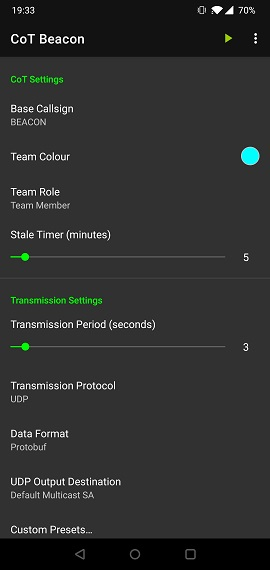
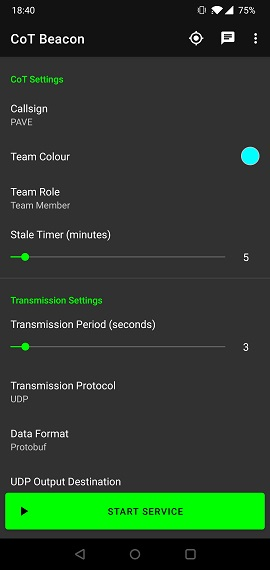
Updated readme

diff --git a/README.md b/README.md
@@ -10,7 +10,7 @@ CoT Beacon was originally spun off as [a separate repository](https://github.com
 ## Quick Start
 1. Download the installer APK from [the GitHub releases page](https://github.com/jonapoul/cotgenerator/releases), then copy the file to your device and open it in a file browser to install.
 2. Open the app and grant permissions for GPS access and reading external storage. See [permissions section](#permissions).
-3. Configure as required (see below for more explanation).
+3. Configure as required. See [settings section](#settings).
 4. Tap the green "start" icon in the right hand side of the upper toolbar. This begins the configured packet transmissions.
 5. When finished, tap the red "stop" icon on the toolbar, or the "STOP" button on the service notification.
 
@@ -18,7 +18,7 @@ CoT Beacon was originally spun off as [a separate repository](https://github.com
 
 | Generator Main Screen | Custom Output Presets | Beacon Main Screen
 |:--:|:--:|:--:|
-![Main Screen](docs/screenshots/ui_main.jpg) | ![Main Screen](docs/screenshots/ui_presets.jpg) | ![CoT Beacon](docs/screenshots/ui_beacon.jpg) |
+![Main Screen](docs/screenshots/ui_generator.jpg) | ![Main Screen](docs/screenshots/ui_presets.jpg) | ![CoT Beacon](docs/screenshots/ui_beacon.jpg) |
 
 | 20 Icons |
 :--:|
@@ -33,37 +33,55 @@ CoT Beacon was originally spun off as [a separate repository](https://github.com
 ![20 Icons Elevated](docs/screenshots/end_times.jpg)|
 
 ## Function
-This app generates a specified number of representative CoT PLI tracks around a configured latitude/longitude point. These tracks are randomly scattered within the configured "Radial Distribution" and are given randomised ATAK callsigns. After each transmission, each track is shifted slightly to a random position dependent on the icon movement speed. CoT Generator is mostly intended for network/server stress testing, but could also be useful for demonstration purposes.
 
-It supports SSL, TCP and UDP traffic, and it will give you a red UI notification if any connection errors occur (timeout, socket closing, etc.).
+CoT Generator creates a specified number of representative CoT PLI tracks around a configured latitude/longitude point. These tracks are randomly scattered within the configured "Radial Distribution" and are given randomised ATAK callsigns (by default). After each transmission, each track is shifted slightly to a random nearby position dependent on the configured icon movement speed. Generator is mostly intended for network/server stress testing, but could also be useful for demonstration purposes.
 
-Similarly, if you're travelling between different networks whilst the server is running (e.g. losing Wi-Fi signal then regaining it), you should expect it to stop running when the connection is lost. Just restart the service and it should work again.
+Both apps support SSL, TCP and UDP traffic, and will give you notifications of any runtime connection errors (timeout, socket closing, etc.). Similarly, if you're travelling between different networks whilst the server is running (e.g. losing Wi-Fi signal then regaining it), you should expect it to stop running when the connection is lost. Just restart the service and it should work again.
+
+Also included is a handy "My Location" screen - accessed from the toolbar on the home screen - which shows your current GPS position, compass orientation and some other useful values.
+
+## Presets
+The app is based around the idea of "output presets", which are connection configurations that specify a protocol, alias, address and port to which the app will send your generated data. These are stored in a database on the device for future use in case you swap between multiple servers.
+
+At the moment (Oct 2020) these databases are independent between Beacon and Generator, so any preset configured in Beacon is not auto-imported into Generator. This shared data pool is something that I am looking to fix at some point in the future.
+
+### Importing Presets
+When adding a new preset, the user can either enter one manually (faffing about with the keyboard) or import one semi-automatically from an ATAK preference file or data package. To do this:
+- Open the "Custom Presets" screen [as shown above](#screenshots)
+- Tap the + button in the bottom right
+- Tap "Import From File"
+- Navigate to the location of your file.
+    - If preferences are exported from ATAK's setting menu, look under /atak/config/prefs
+    - If importing from a data package, look under /atak/tools/datapackage
+- If the selected file contains multiple outputs, you will be presented with a list dialog asking to import one of them. Currently, only a single import can currently be performed at a time.
+- When selected, the "Edit Preset" screen is shown, so you can edit to your heart's content. When done, tap the "save" button in the top right to finalise the process.
+
 
 ## Settings
 
 Note that some of the following settings are not available on CoT Beacon.
 
-| Option | Possible Values | Default Value | Description |
-|--------|-----------------|---------------|-------------|
-| Use Random Callsigns? | True/False | True | When enabled, icon callsigns will be pulled at random from ATAK's default callsign list. |
-| Callsign | Any characters except '<' or '>' | GENERATED | Acts as a base callsign for all generated icons. E.g. "GENERATED-1", "GENERATED-2", etc. |
-| Use Random Team Colours? | True/False | True | When enabled, icon colours are pulled at random from ATAK's team colour list. |
-| Team Colour | Standard ATAK team colours | Cyan | Colour to be applied to all icons. |
-| Use Random Team Roles? | True/False | True | When enabled, icon roles are pulled at random from ATAK's role list. |
-| Team Role | Standard ATAK icon roles | Team Member | Role to be applied to all icons. |
-| Icon Count | Positive integer | 10 | Number of icons to place on the map. |
-| Stale Timer | 1 to 60 | 5 mins | Time after which icons will stale out of the TAK map. |
-| Follow My GPS Location? | True/False | True | When enabled, all generated icons will follow your moving GPS position on the ATAK map. |
-| Centre Latitude/Longitude | <p>0 < longitude < 360<br>-90 < latitude < 90</p> | <p>Lat = 53.725103<br>Lon = -1.351375</p> | Specifies the static centrepoint of all generated icons. |
-| Stay At Ground Level? | True/False | True | When enabled, all icons are placed at an altitude of 0m HAE (height above ellipsoid). |
-| Centre Altitude | 0 to 5km | 0m | Sets the vertical centrepoint of all generated icons. Icons will be distributed in a pseudo-cylinder around the specified lat/lon/HAE coordinates. |
-| Radial Distribution | Positive integer | 100m | The radius of the icon distribution circle. Essentially a maximum distance each icon can possibly move from the centrepoint in 3D space. |
-| Icon Movement Speed  | Positive integer | 5mph | Speed at which each icon moves from point to point between each update. Note that the directional bearing is random. |
-| Transmission Period | 1 to 30 | 10 seconds | Update period for each icon. So if we have Icon Count of 40 and a Transmission period of 10 seconds, we'll send out 4 packets per second. |
-| Transmission Protocol | SSL, TCP, UDP | TCP | Network protocol to use when sending out packets. |
-| Data Format | XML or Protobuf | Protobuf | The serialisation format of the CoT packet. Note that TAK Servers over TCP/SSL only allow XML (as far as I know!), so the option will be hidden for these protocols. |
-| Output Destination | Any default or custom preset | Public FreeTakServer |  |
-| Custom Presets... | N/A | N/A | Opens a window to add, edit and delete persisted custom presets for each protocol. See the screenshot at the top. |
+| Option | Possible Values | Description |
+|--------|-----------------|-------------|
+| Use Random Callsigns? | True/False | When enabled, icon callsigns will be pulled at random from ATAK's default callsign list. |
+| Callsign | Any characters except '<' or '>' | Acts as a base callsign for all generated icons. E.g. "GENERATED-1", "GENERATED-2", etc. |
+| Use Indexed Callsigns? | True/False | When enabled, icons will have their callsigns appended with an identifying index, e.g. 'GENERATED-1'.z |
+| Use Random Team Colours? | True/False |When enabled, icon colours are pulled at random from ATAK's team colour list. |
+| Team Colour | Standard ATAK team colours | Colour to be applied to all icons. |
+| Use Random Team Roles? | True/False | When enabled, icon roles are pulled at random from ATAK's role list. |
+| Team Role | Standard ATAK icon roles | Role to be applied to all icons. |
+| Icon Count | Positive integer | Number of icons to place on the map. |
+| Stale Timer | 1 to 60 | Time (in minutes) after which icons will stale out of the TAK map. |
+| Follow My GPS Location? | True/False | When enabled, all generated icons will follow your moving GPS position on the ATAK map. |
+| Centre Latitude/Longitude | <p>0 < longitude < 360<br>-90 < latitude < 90</p> | Specifies the static centrepoint of all generated icons. |
+| Stay At Ground Level? | True/False | When enabled, all icons are placed at an altitude of 0m HAE (height above ellipsoid). |
+| Centre Altitude | 0 to 5km | Sets the vertical centrepoint of all generated icons. Icons will be distributed in a pseudo-cylinder around the specified lat/lon/HAE coordinates. |
+| Radial Distribution | Positive integer | The radius of the icon distribution circle. Essentially a maximum distance each icon can possibly move from the centrepoint in 3D space. |
+| Icon Movement Speed  | Positive integer | Speed at which each icon moves from point to point between each update. Note that the directional bearing is random. |
+| Transmission Period | 1 to 30 | Update period for each icon. So if we have Icon Count of 40 and a Transmission period of 10 seconds, we'll send out 4 packets per second. |
+| Transmission Protocol | SSL, TCP, UDP | Network protocol to use when sending out packets. |
+| Data Format | XML or Protobuf | The serialisation format of the CoT packet. Note that TAK Servers over TCP/SSL only allow XML, so the option will be hidden for these protocols. |
+| Output Destination | Any default or custom preset | The preconfigured destination for your generated packets. |
 
 ## Permissions
 Two permissions requested:
